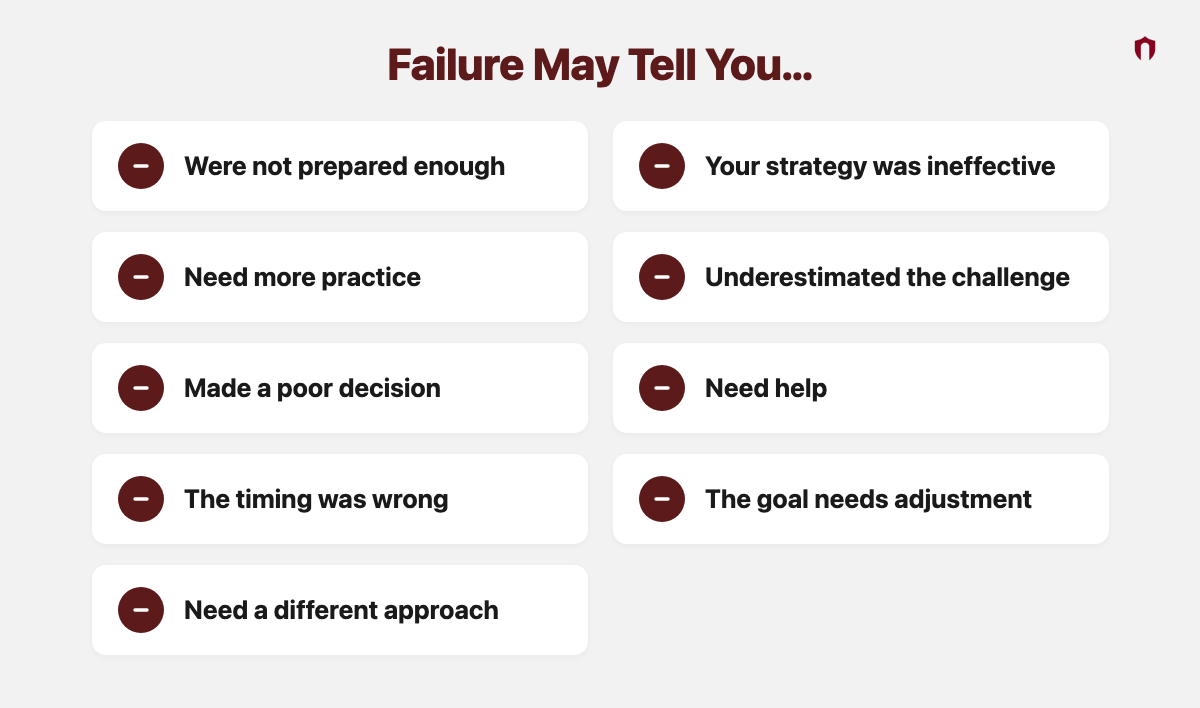
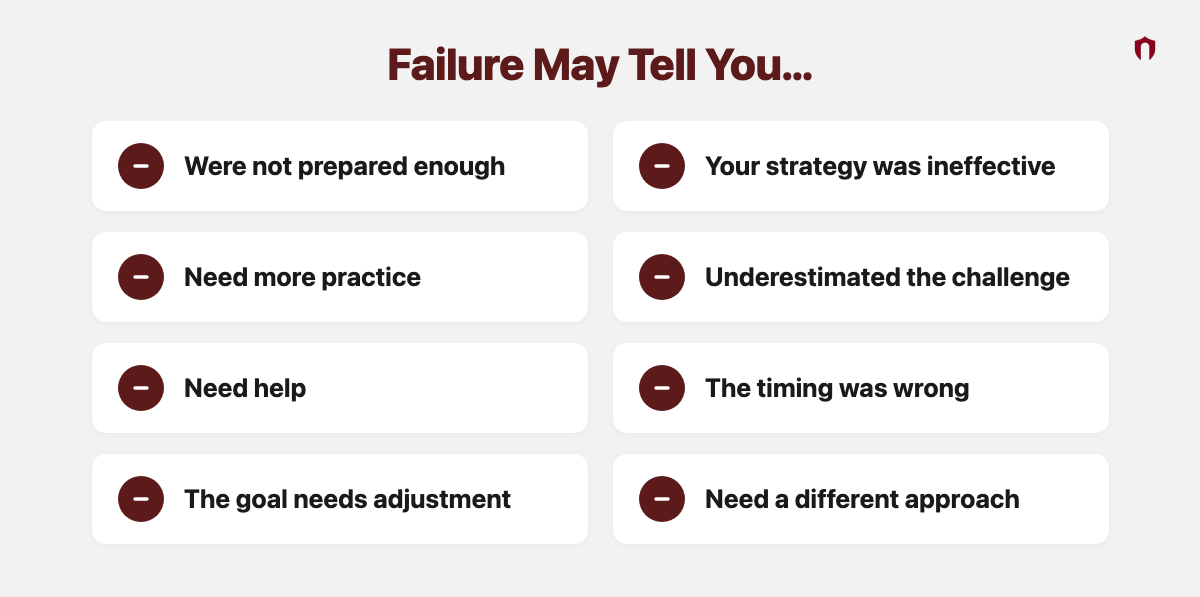
Drop an item from the failure feedback graphic

diff --git a/topics/self-esteem.html b/topics/self-esteem.html
@@ -219,7 +219,7 @@
         <p class="module-subtitle"><strong>Failure Is Information</strong></p>
         <p>Failure contains feedback.</p>
         <p>Sometimes the feedback is uncomfortable.</p>
-        <img src="../images/self-esteem-failure-tells-you.png" alt="Failure May Tell You: were not prepared enough; your strategy was ineffective; need more practice; underestimated the challenge; made a poor decision; need help; the timing was wrong; the goal needs adjustment; need a different approach" style="width:100%; max-width:720px; display:block; margin:0.6rem auto; border-radius: var(--radius); box-shadow: var(--shadow);">
+        <img src="../images/self-esteem-failure-tells-you.png" alt="Failure May Tell You: were not prepared enough; your strategy was ineffective; need more practice; underestimated the challenge; need help; the timing was wrong; the goal needs adjustment; need a different approach" style="width:100%; max-width:720px; display:block; margin:0.6rem auto; border-radius: var(--radius); box-shadow: var(--shadow);">
         <p>Other times, failure tells you very little about your ability.</p>
         <p>You may have prepared well and still lost.</p>
         <p>Someone else may have been more qualified.</p>
